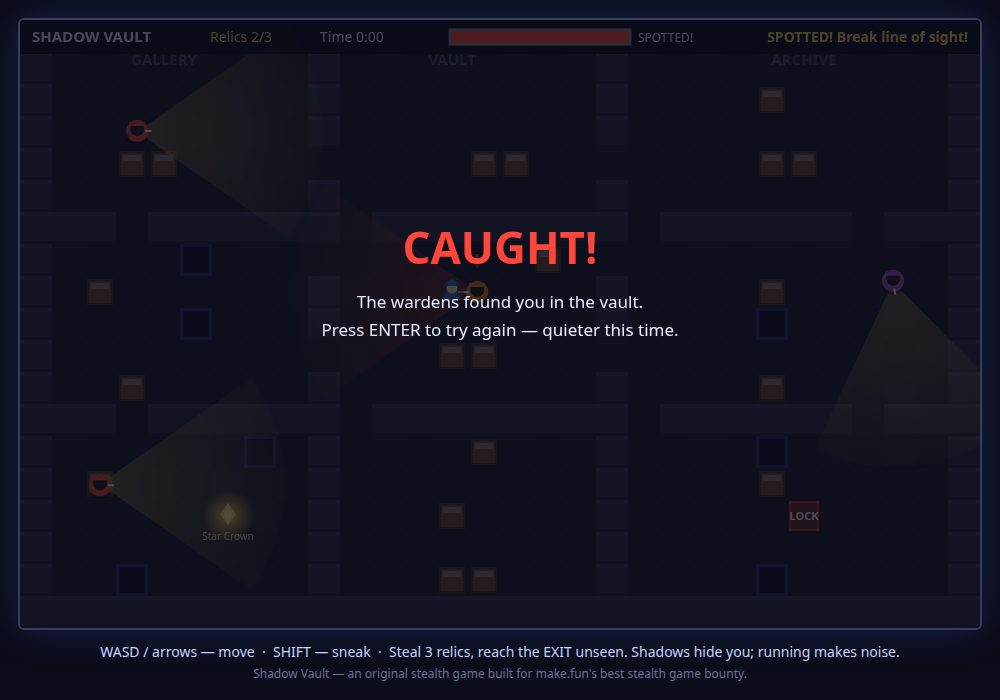
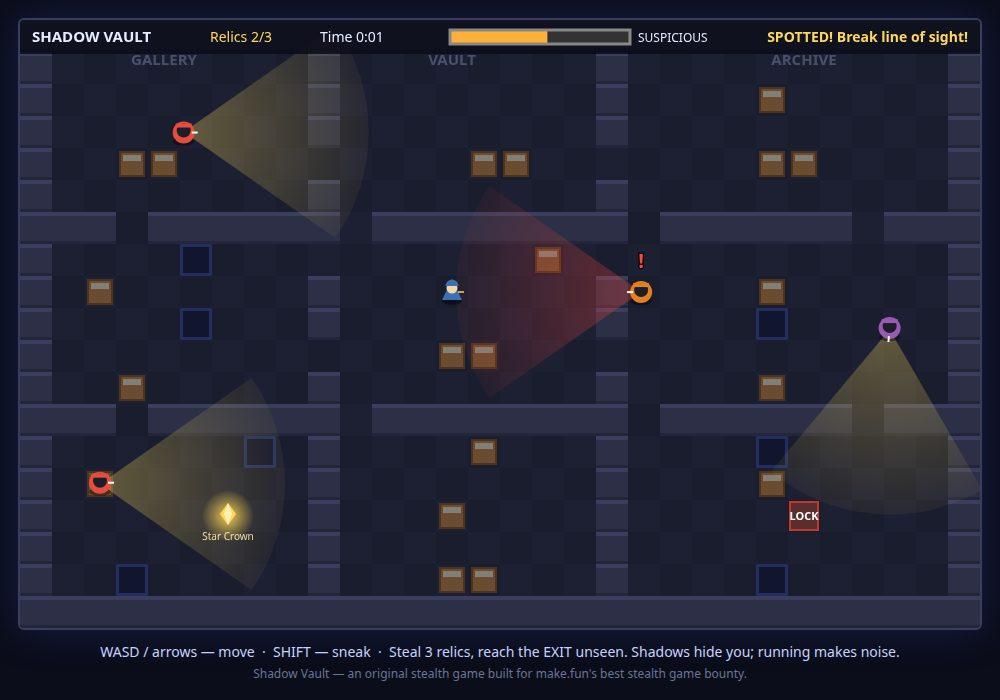
Stage the alert screenshot mid-chase so the guard is seen hunting, not after the catch

diff --git a/game/src/main.js b/game/src/main.js
@@ -67,7 +67,7 @@ function stageShot(mode) {
     player.relics = 2;
     player.x = 13.5 * TILE; player.y = 8.5 * TILE;
     player.sneaking = false;
-    guards[1].x = 16.5 * TILE; guards[1].y = 8.5 * TILE; guards[1].dir = Math.PI;
+    guards[1].x = 21.5 * TILE; guards[1].y = 8.5 * TILE; guards[1].dir = Math.PI;
     guards[1].state = 'alerted';
     guards[1].suspicion = 100;
     guards[1].lastSeen = { x: player.x, y: player.y };
